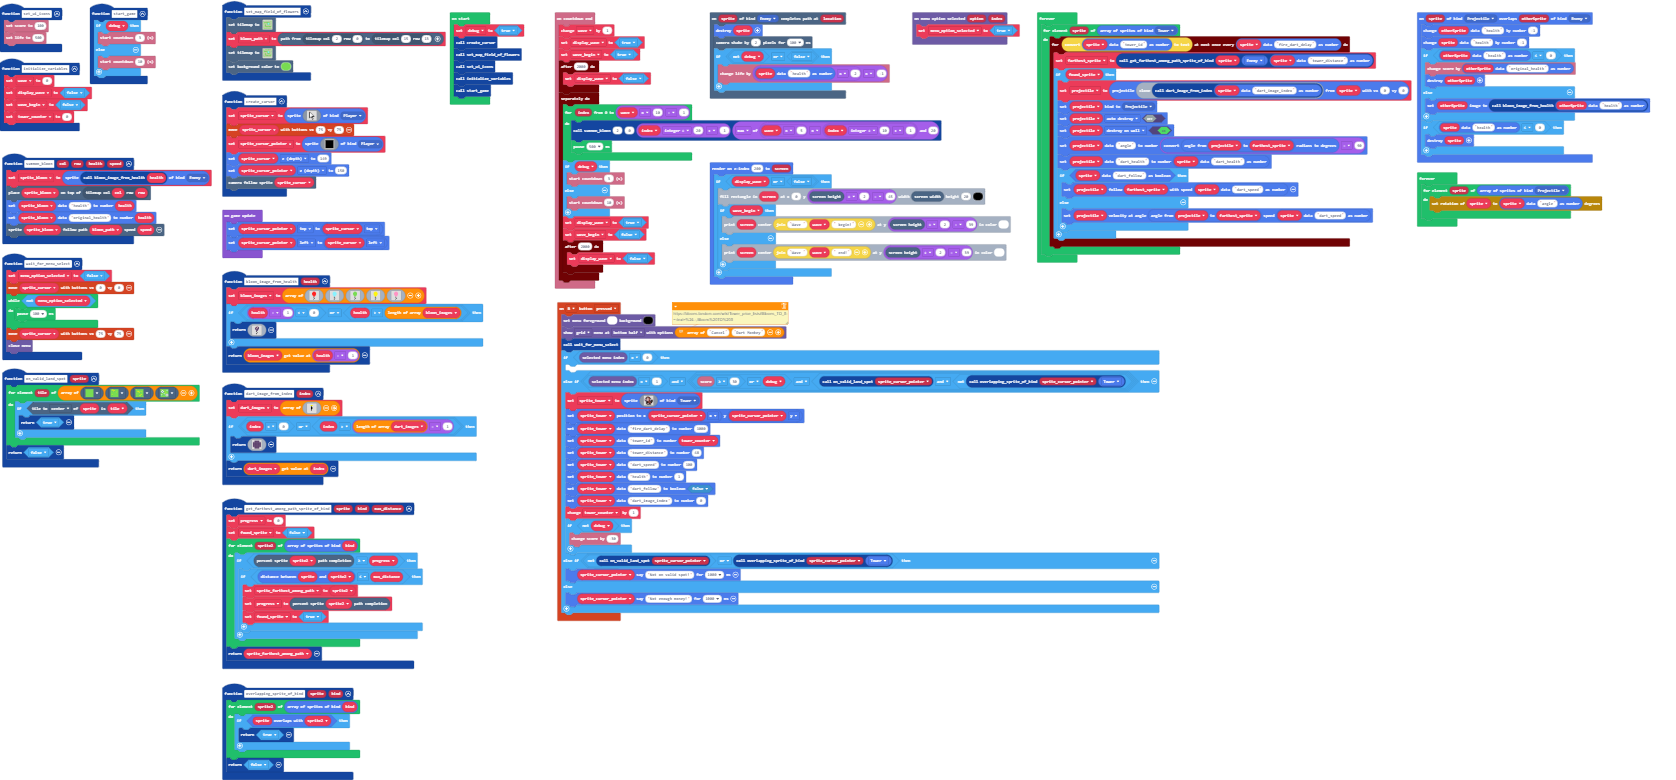
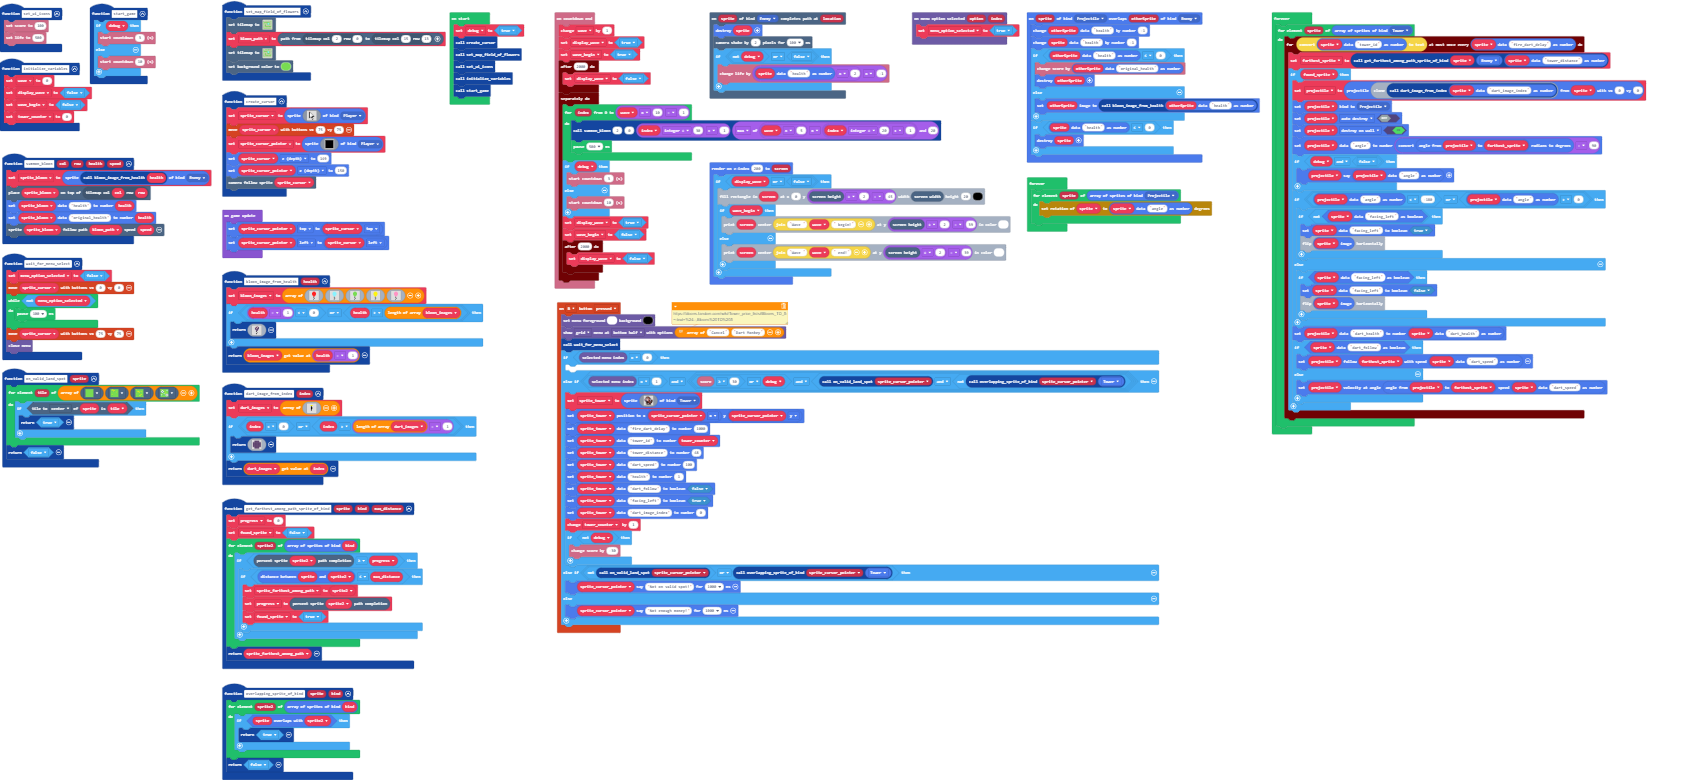
Rotating monkeys! (And made the waves easier)

diff --git a/main.ts b/main.ts
@@ -63,6 +63,7 @@ controller.B.onEvent(ControllerButtonEvent.Pressed, function () {
         sprites.setDataNumber(sprite_tower, "dart_speed", 100)
         sprites.setDataNumber(sprite_tower, "health", 1)
         sprites.setDataBoolean(sprite_tower, "dart_follow", false)
+        sprites.setDataBoolean(sprite_tower, "facing_left", true)
         sprites.setDataNumber(sprite_tower, "dart_image_index", 0)
         tower_counter += 1
         if (!(debug)) {
@@ -93,7 +94,7 @@ info.onCountdownEnd(function () {
     })
     timer.background(function () {
         for (let index = 0; index <= wave * 10 - 1; index++) {
-            summon_bloon(2, 0, Math.idiv(index, 20) + 1, Math.max(wave * 5 * (Math.idiv(index, 10) + 1), 20))
+            summon_bloon(2, 0, Math.idiv(index, 30) + 1, Math.max(wave * 5 * (Math.idiv(index, 20) + 1), 20))
             pause(500)
         }
         if (debug) {
@@ -409,6 +410,20 @@ forever(function () {
                 projectile.setFlag(SpriteFlag.AutoDestroy, false)
                 projectile.setFlag(SpriteFlag.DestroyOnWall, true)
                 sprites.setDataNumber(projectile, "angle", spriteutils.radiansToDegrees(spriteutils.angleFrom(projectile, farthest_sprite)) - 90)
+                if (debug && false) {
+                    projectile.say(sprites.readDataNumber(projectile, "angle"))
+                }
+                if (sprites.readDataNumber(projectile, "angle") < -180 || sprites.readDataNumber(projectile, "angle") > 0) {
+                    if (!(sprites.readDataBoolean(sprite, "facing_left"))) {
+                        sprites.setDataBoolean(sprite, "facing_left", true)
+                        sprite.image.flipX()
+                    }
+                } else {
+                    if (sprites.readDataBoolean(sprite, "facing_left")) {
+                        sprites.setDataBoolean(sprite, "facing_left", false)
+                        sprite.image.flipX()
+                    }
+                }
                 sprites.setDataNumber(projectile, "dart_health", sprites.readDataNumber(sprite, "dart_health"))
                 if (sprites.readDataBoolean(sprite, "dart_follow")) {
                     projectile.follow(farthest_sprite, sprites.readDataNumber(sprite, "dart_speed"))
